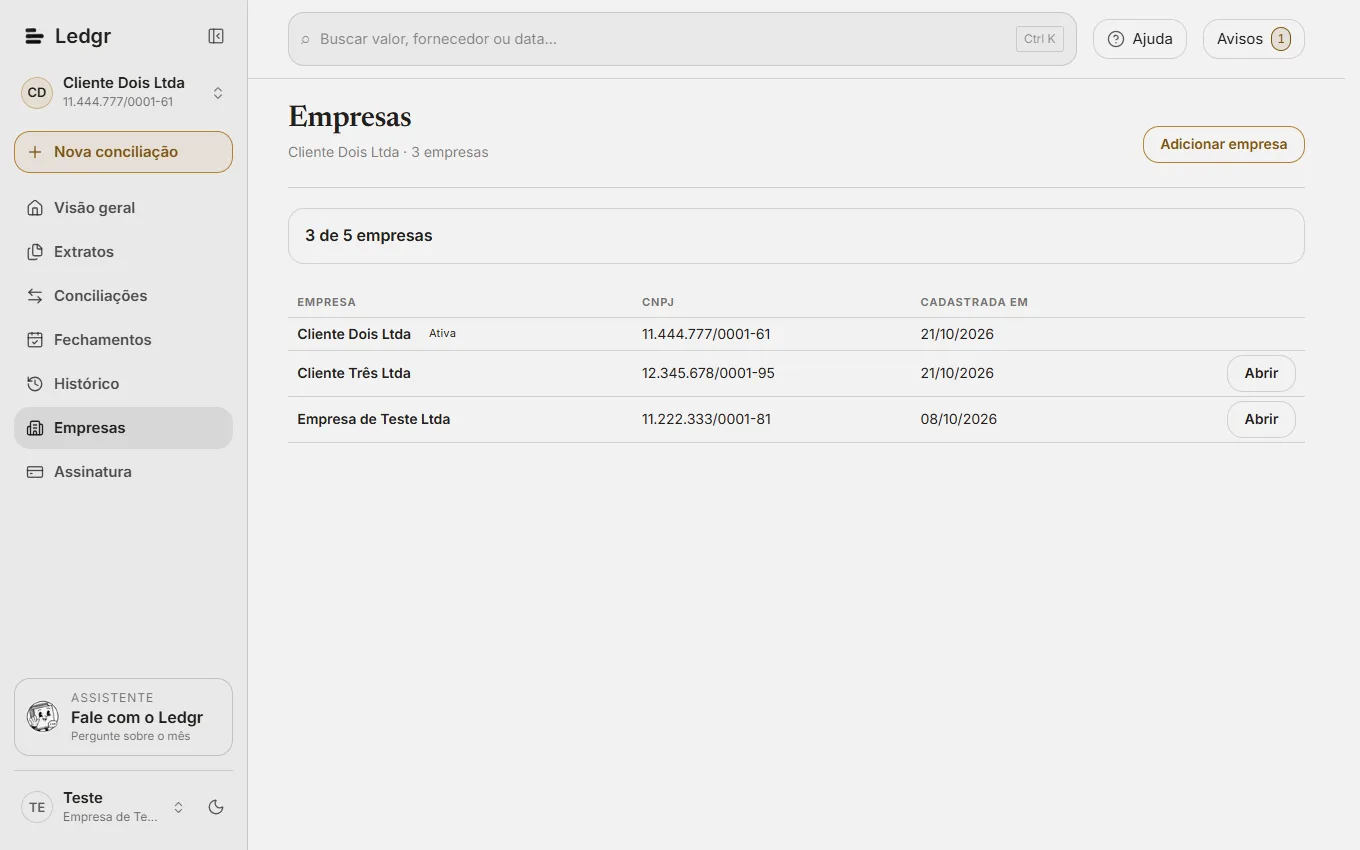
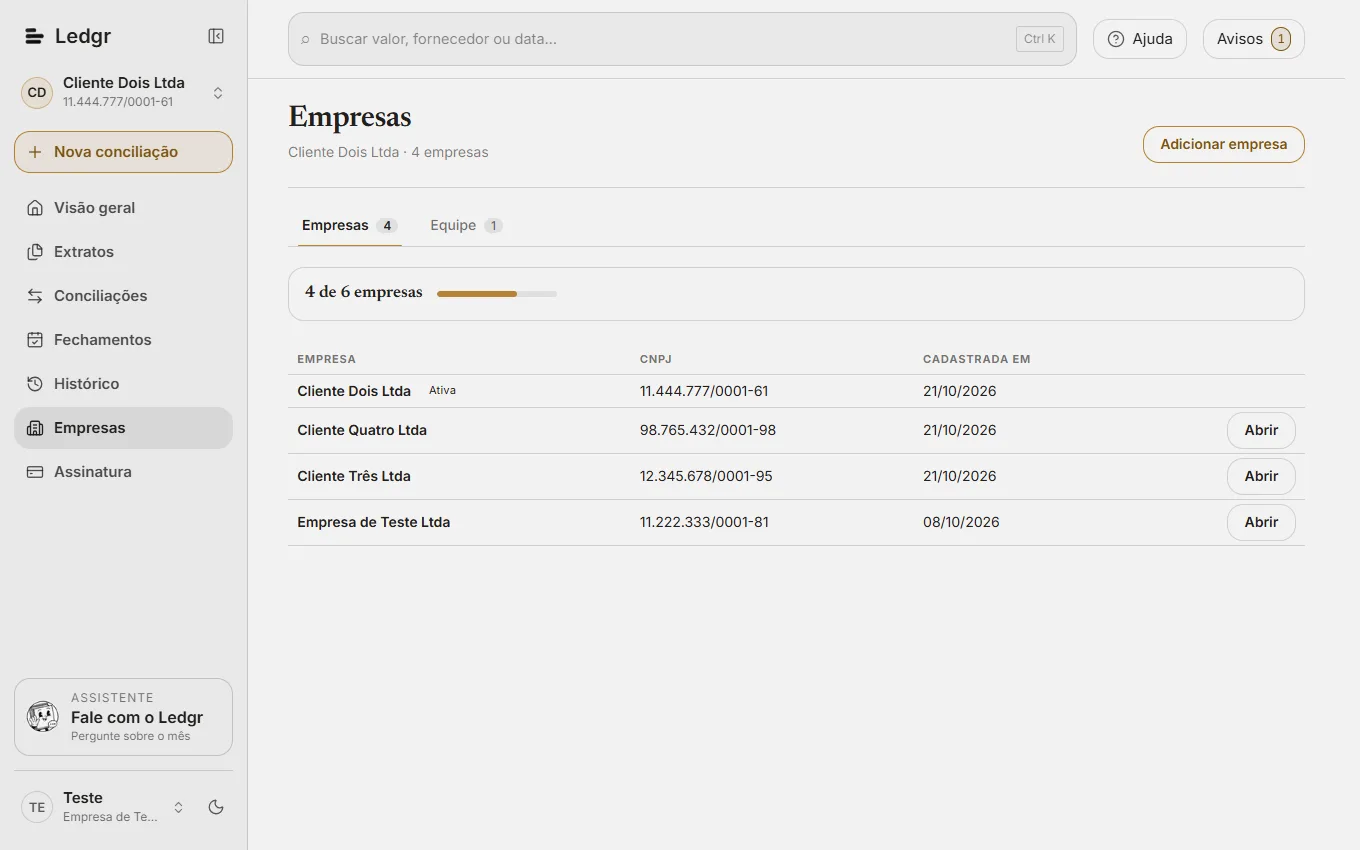
docs(ajuda): a Equipe na página Empresas e CLAUDE.md (#169)

diff --git a/app/(ajuda)/ajuda/paginas.ts b/app/(ajuda)/ajuda/paginas.ts
@@ -590,6 +590,22 @@ export const PAGINAS: PaginaDeAjuda[] = [
           "Para ter mais empresas, troque de plano em **Assinatura**.",
         ],
       },
+      {
+        id: "equipe",
+        titulo: "A equipe",
+        faz: "As pessoas com acesso à conta e o papel de cada uma: **Administrador**, **Gestor** ou **Analista**. O administrador e o gestor convidam e cancelam convites; só o administrador remove pessoas.",
+        passos: [
+          "Abra **Empresas** no menu lateral e clique na aba **Equipe**.",
+          "Clique em **Convidar pessoa**, digite o e-mail e escolha o papel: cada cartão diz o que a pessoa poderá fazer. O administrador convida gestor ou analista; o gestor convida só analista. A pessoa recebe um link para criar o acesso.",
+          "Para tirar alguém, clique em **Remover** na linha dela (só o administrador vê o botão) e confirme. O acesso é cortado na hora.",
+        ],
+        nota: "O analista vê a lista, concilia e justifica, mas não fecha o mês nem convida ninguém. Os convites pendentes contam no limite de pessoas do plano.",
+        imagem: {
+          src: "/ajuda/empresas--equipe.webp",
+          largura: 1360,
+          altura: 850,
+        },
+      },
     ],
   },
   {
@@ -597,7 +613,7 @@ export const PAGINAS: PaginaDeAjuda[] = [
     titulo: "Configurações",
     onde: "Menu da conta › Configurações, ou Ctrl e vírgula",
     serve:
-      "A sua conta, a equipe, a aparência do app e a regra da conciliação.",
+      "A sua conta, a aparência do app e a regra da conciliação.",
     capa: {
       src: "/ajuda/configuracoes.webp",
       largura: 1360,
@@ -607,7 +623,7 @@ export const PAGINAS: PaginaDeAjuda[] = [
       {
         id: "abrir",
         titulo: "Abrir e procurar",
-        faz: "As configurações abrem numa janela por cima da tela em que você está, com as seções à esquerda: Conta, Equipe, Aparência, Conciliação, Atalhos de teclado, Privacidade e Sobre.",
+        faz: "As configurações abrem numa janela por cima da tela em que você está, com as seções à esquerda: Conta, Aparência, Conciliação, Atalhos de teclado, Privacidade e Sobre.",
         passos: [
           "Clique no seu nome no menu lateral e em **Configurações**, ou aperte **Ctrl** e **,**.",
           "Escolha a seção, ou digite em **Procurar** o que quer mudar, por exemplo “senha”.",
@@ -640,22 +656,6 @@ export const PAGINAS: PaginaDeAjuda[] = [
         nota: "Vale a partir da próxima conciliação. Com 0, só casam lançamentos do mesmo dia.",
         imagem: {
           src: "/ajuda/configuracoes--tolerancia.webp",
-          largura: 960,
-          altura: 640,
-        },
-      },
-      {
-        id: "equipe",
-        titulo: "Equipe",
-        faz: "As pessoas com acesso à empresa e o papel de cada uma: **Administrador**, **Gestor** ou **Analista**. O administrador e o gestor convidam e cancelam convites; só o administrador remove pessoas.",
-        passos: [
-          "Abra **Equipe**.",
-          "Clique em **Convidar pessoa**, digite o e-mail e escolha o papel. O administrador convida gestor ou analista; o gestor convida só analista. A pessoa recebe um link para criar o acesso.",
-          "Para tirar alguém, clique em **Remover** (só o administrador vê o botão). O acesso é cortado na hora.",
-        ],
-        nota: "O analista concilia e justifica, mas não fecha o mês nem convida ninguém.",
-        imagem: {
-          src: "/ajuda/configuracoes--equipe.webp",
           largura: 960,
           altura: 640,
         },

diff --git a/app/(ajuda)/ajuda/central.test.tsx b/app/(ajuda)/ajuda/central.test.tsx
@@ -125,17 +125,27 @@ describe("o conteúdo da ajuda", () => {
     expect(empresas.titulo).toBe("Empresas");
     expect(empresas.onde).toBe("Menu lateral › Empresas");
     expect(existsSync(join("public", empresas.capa.src)), empresas.capa.src).toBe(true);
-    expect(empresas.funcoes.map((funcao) => funcao.id)).toEqual(["lista", "abrir", "cadastrar", "limite"]);
+    expect(empresas.funcoes.map((funcao) => funcao.id)).toEqual(["lista", "abrir", "cadastrar", "limite", "equipe"]);
     const cadastrar = empresas.funcoes.find((funcao) => funcao.id === "cadastrar")!;
     for (const botao of ["**Adicionar empresa**", "**Cadastrar empresa**"]) {
       expect(cadastrar.passos?.join(" "), botao).toContain(botao);
     }
     expect(empresas.funcoes.find((funcao) => funcao.id === "limite")!.passos?.join(" ")).toContain("**Assinatura**");
 
+    // a equipe mudou das Configurações para a aba Equipe desta página
+    const equipe = empresas.funcoes.find((funcao) => funcao.id === "equipe")!;
+    const passosDaEquipe = equipe.passos?.join(" ") ?? "";
+    for (const botao of ["**Equipe**", "**Convidar pessoa**", "**Remover**"]) {
+      expect(passosDaEquipe, botao).toContain(botao);
+    }
+    expect(equipe.imagem?.src).toBe("/ajuda/empresas--equipe.webp");
+
     const configuracoes = PAGINAS.find((pagina) => pagina.id === "configuracoes")!;
-    expect(configuracoes.funcoes.some((funcao) => funcao.id === "empresas")).toBe(false);
-    expect(configuracoes.funcoes.find((funcao) => funcao.id === "abrir")!.faz).toContain("Conta, Equipe, Aparência");
-    expect(configuracoes.serve).not.toMatch(/empresas/);
+    expect(configuracoes.funcoes.some((funcao) => funcao.id === "empresas" || funcao.id === "equipe")).toBe(false);
+    expect(configuracoes.funcoes.find((funcao) => funcao.id === "abrir")!.faz).toContain("Conta, Aparência");
+    expect(configuracoes.funcoes.find((funcao) => funcao.id === "abrir")!.faz).not.toContain("Equipe");
+    expect(configuracoes.serve).not.toMatch(/empresas|equipe/);
+    expect(existsSync(join("public", "ajuda", "configuracoes--equipe.webp"))).toBe(false);
   });
 
   it("toda imagem existe em public/", () => {

diff --git a/CLAUDE.md b/CLAUDE.md
@@ -23,8 +23,8 @@
 - **The date tolerance is editable** in Configurações › Conciliação, from `GET`/`PUT /empresa/configuracoes` (backend #85, `carregarRegras`/`salvarToleranciaDias`): 0 up to the `tolerancia_dias_maximo` the backend sends, saved by button, valid from the next conciliation. It is the only engine rule the backend keeps (value tolerance and similarity were dropped, ADR-006/008); with a 404 the dialog shows the last conciliation's tolerance, read only.
 - **The account comes from `GET /me`** (backend #81), read once per layout load by `contaDaSessao` in `app/(auth)/acoes.ts`: the company name for the header and menu, and whether the account has a password (`metodos_login`; a Google-only account gets no "Trocar senha"). The role comes in `papel` (`admin`, `gestor` or `analista`, backend #133, read by `lerPapel` in `lib/papel.ts`); without it the old `administrador` decides (false is analista), and without both the account is admin, as in the old single account. `administrador` is obsolete on the backend and goes away only after we tell them we stopped reading it.
 - **The active company lives in the URL** (backend #133/ADR-019, front #169 part A, `docs/superpowers/specs/2026-10-21-empresa-ativa-na-url-design.md`). Every app screen is `/e/<empresa-uuid>/<screen>` (`app/(app)/e/[empresa]/...`), one scheme even with a single company: the token cookie is shared by every tab, so the active company can't live in it. `proxy.ts` reads the UUID from the path and leaves it in the request as `x-ledgr-empresa` (always deleting any incoming one); `chamarBackend`/`baixarDoBackend` (`lib/backend.ts`) send it as `X-Ledgr-Empresa`, so no Server Action passes it. The CSV route (`/api`, outside the proxy) takes `?empresa=` and passes `{ empresa }` to `baixarDoBackend`. `lib/rotas.ts` holds the pure rules (`comEmpresa`, `caminhoSemEmpresa`, `destinoDaTroca`, `escolherEmpresa`, `destinoDaUrlAntiga`); inside the tree, links, pushes and redirects go through `LinkDoApp` (`lib/link-do-app.tsx`), `useRoteador()` (`lib/roteador.ts`) and `redirecionarNoApp()` (`lib/rotas-servidor.ts`), and `lib/rotas.guarda.test.ts` fails on a raw `Link`, `useRouter`, `redirect` or literal address to an app screen (write new links with the helpers). The layout of `e/[empresa]` checks the UUID against `me.empresas` (404 otherwise; without the list, as on a backend before #133, it accepts it) and gives `ProvedorDaEmpresa` the active company: the screens' header shows it and the user card shows the account. `app/(sem-empresa)/[secao]/[[...resto]]` redirects the old URLs (`/visao-geral`, favourites, the login target) to the last company used (cookie `ledgr-empresa-recente`, a preference only: it never goes to the backend) or the first, and answers 404 to anything that could leave the site. `SeletorDeEmpresa` (top of the sidebar, hidden with one company, search above 8) switches to the same screen in the other company, or to the section root from a screen with an id. Registering companies is the next bullet (a screen of the menu). Not built: the `conta_id` JWT claim (the backend still accepts the old `empresa_id`).
-- **Client companies and plan limits** (backend #133 part 2, front #169 part B, `docs/superpowers/specs/2026-10-22-empresas-na-configuracao-design.md`). **Empresas is a screen of the side menu** (`/e/<empresa>/empresas`, `app/(app)/e/[empresa]/empresas/`, between Histórico and Assinatura; `empresas` is in `SECOES`), not a section of Configurações. `page.tsx` is a Server Component like Extratos: it loads `GET /empresas` (everyone; `{ itens }` with `cnpj_verificado_em`) through `carregarEmpresas` and hands the list to `PainelDeEmpresas`, which carries its own `Cabecalho` because the header's "Adicionar empresa" button opens the form panel. The table shows razão social with "Ativa", CNPJ with "CNPJ verificado", the registration day and "Abrir", which goes to the other company's **Visão geral** (cookie + `comEmpresa`; the selector keeps the same screen instead). The admin and the gestor register one (`CadastrarEmpresa`, `cadastrarEmpresa`: the CNPJ goes with letters and digits only, upper case, after `validarCnpj`, which already knows the alphanumeric CNPJ; razão social is not taken from the Receita, the authenticated route does not return it); on success the new company opens on its Visão geral. A double submit sends once (a `ref` locks before the first `await`). The errors: 409 and 422 sit under the CNPJ field (422 is the format or the Receita, from `ErroBackend.mensagens.cnpj` with the `Value error, ` prefix removed), 402 shows the backend's text with "Ver planos" and re-reads the page (`router.refresh()`), 429 reads `Retry-After`, 403 re-reads the page. The analista only sees the list. `limites` of `GET /me` (`{ empresas: { usadas, maximo }, usuarios: { usados, maximo } }`, `maximo` null is unlimited) is read by `adaptarLimites` in `lib/limites.ts`, carried `contaDaSessao` → `Shell` → `ProvedorDaConta` and read with `useLimites()`; without the field nothing is shown. `situacaoDoLimite` gives `livre`, `folga`, `perto` (one left, or 80%), `no-limite` and `acima`, and `textoDoLimite` the sentence. On the screen the plan strip shows "3 de 5 empresas" and, at the limit, the add button is off (the backend answers 402 even to the admin); in Equipe the same notice for people (active plus pending invites) only warns, it does not turn the invite off, because re-sending to the same e-mail takes no seat and the screen cannot predict the 402. The selector ends its list with a "Gerenciar empresas" link to the screen; with one company the selector is hidden, so the way in is the menu. The Central de ajuda has an "Empresas" page (cover `public/ajuda/empresas.webp`); the screen has no mascot tutorial yet (Assinatura has none either). Not built: editing or removing a company (no backend route).
-- **Team and invites** (backend #69/#73, `docs/superpowers/specs/2026-10-16-equipe-e-convites-design.md`). Three roles (#133): the admin signed the company up; the gestor and the analista come by invite. Configurações › Equipe (`app/(app)/equipe/`: `useLinhasDaEquipe` returns lines in the same shape as the other sections, so the dialog's search finds them) lists people from `GET /empresa/usuarios` (everyone) and, for the admin and the gestor, pending invites from `GET /empresa/convites` (a 403 there leaves the list without them, it does not break the team), with invite (`POST` with `{ email, papel }`: the admin invites gestor or analista, the gestor only analista; 409/429 with `Retry-After` in `ErroBackend.segundosParaTentar`/503 while the backend's e-mail is off), cancel and remove (cuts access at once). The invite link is `/aceitar-convite#token=...` (`app/(auth)/aceitar-convite/`): the page reads the token from the fragment, clears it, calls `POST /convites/consultar` and accepts with name and password (`POST /convites/aceitar`, then `entrar`) or with Google: "Aceitar com Google" stores the token in the httpOnly cookie `ledgr-convite-google` (1 hour) and `aoVoltarDoGoogle` sees it and calls `POST /convites/aceitar/google` instead of `/login/google`; refusals come back as `/aceitar-convite?google=<motivo>` and the server re-reads the invite from the cookie (`conviteDoCookie`). Someone already signed in sees "Sair e continuar" first. The plan limit for people only warns (see the bullet above). Everybody justifies (decision of 21/10); closing or reopening a month is for the admin and the gestor (`podeFecharMes` in `lib/papel.ts`, text in `lib/gestor.ts`): `ProvedorDaConta` carries `papel` (`usePapel`, `usePodeFechar`), the Fechamentos panel hides those buttons for the analista with a one-line reason, and `fecharMes`/`reabrirMes` refuse with 403 before calling the backend. The lock that counts is the backend's (backend #132/#133), whose 403 maps to the same text. Not built yet: changing a role (`PATCH /empresa/usuarios/{id}`) and transferring the admin (`POST /empresa/admin/transferencia`). Removing people stays with the admin.
+- **Client companies and plan limits** (backend #133 part 2, front #169 part B, `docs/superpowers/specs/2026-10-22-empresas-na-configuracao-design.md`). **Empresas is a screen of the side menu** (`/e/<empresa>/empresas`, `app/(app)/e/[empresa]/empresas/`, between Histórico and Assinatura; `empresas` is in `SECOES`), not a section of Configurações. `page.tsx` is a Server Component like Extratos: it loads `GET /empresas` (everyone; `{ itens }` with `cnpj_verificado_em`) through `carregarEmpresas` and hands the list to `PainelDeEmpresas`, which carries its own `Cabecalho` because the header's button ("Adicionar empresa" or "Convidar pessoa") opens the form panel of the active tab. **The screen has two tabs, Empresas and Equipe** (decision of 23/10, the team moved here from Configurações): `?aba=equipe` opens on Equipe (`page.tsx` reads `searchParams.aba`; any other value is Empresas), switching tabs does not reload and `replaceState`s the URL, the arrows move between tabs, and the team loads with the screen (`useEquipe`, so the Equipe tab's number and the switch are immediate). The table shows razão social with "Ativa", CNPJ with "CNPJ verificado", the registration day and "Abrir", which goes to the other company's **Visão geral** (cookie + `comEmpresa`; the selector keeps the same screen instead). The admin and the gestor register one (`CadastrarEmpresa`, `cadastrarEmpresa`: the CNPJ goes with letters and digits only, upper case, after `validarCnpj`, which already knows the alphanumeric CNPJ; razão social is not taken from the Receita, the authenticated route does not return it); on success the new company opens on its Visão geral. A double submit sends once (a `ref` locks before the first `await`). The errors: 409 and 422 sit under the CNPJ field (422 is the format or the Receita, from `ErroBackend.mensagens.cnpj` with the `Value error, ` prefix removed), 402 shows the backend's text with "Ver planos" and re-reads the page (`router.refresh()`), 429 reads `Retry-After`, 403 re-reads the page. The analista only sees the list. `limites` of `GET /me` (`{ empresas: { usadas, maximo }, usuarios: { usados, maximo } }`, `maximo` null is unlimited) is read by `adaptarLimites` in `lib/limites.ts`, carried `contaDaSessao` → `Shell` → `ProvedorDaConta` and read with `useLimites()`; without the field nothing is shown. `situacaoDoLimite` gives `livre`, `folga`, `perto` (one left, or 80%), `no-limite` and `acima`, and `textoDoLimite` the sentence. Each tab starts with `FaixaDoPlano` ("3 de 5 empresas", "2 de 3 pessoas", a usage bar only when there is a maximum, red at the limit): in Empresas, at the limit or above it, the add button is off (the backend answers 402 even to the admin); in Equipe the same notice for people (active plus pending invites) only warns, it does not turn the invite off, because re-sending to the same e-mail takes no seat and the screen cannot predict the 402. The selector ends its list with a "Gerenciar empresas" link to the screen; with one company the selector is hidden, so the way in is the menu. The Central de ajuda has an "Empresas" page (cover `public/ajuda/empresas.webp`); the screen has no mascot tutorial yet (Assinatura has none either). Not built: editing or removing a company (no backend route).
+- **Team and invites** (backend #69/#73, `docs/superpowers/specs/2026-10-16-equipe-e-convites-design.md`). Three roles (#133): the admin signed the company up; the gestor and the analista come by invite. The **Equipe tab of the Empresas screen** (`app/(app)/e/[empresa]/empresas/painel-da-equipe.tsx`, actions in `equipe/acoes.ts`; it lived in Configurações until 23/10: each person with initials avatar, "você" and the role as a label, pending invites in dashed rows, the invite as a panel with one **card per role** explaining what it allows, the least powerful role preselected, "Remover" asking for confirmation on the row; the signed-in person is marked by `useEmail()` from `ProvedorDaConta`) lists people from `GET /empresa/usuarios` (everyone) and, for the admin and the gestor, pending invites from `GET /empresa/convites` (a 403 there leaves the list without them, it does not break the team), with invite (`POST` with `{ email, papel }`: the admin invites gestor or analista, the gestor only analista; 409/429 with `Retry-After` in `ErroBackend.segundosParaTentar`/503 while the backend's e-mail is off), cancel and remove (cuts access at once). The invite link is `/aceitar-convite#token=...` (`app/(auth)/aceitar-convite/`): the page reads the token from the fragment, clears it, calls `POST /convites/consultar` and accepts with name and password (`POST /convites/aceitar`, then `entrar`) or with Google: "Aceitar com Google" stores the token in the httpOnly cookie `ledgr-convite-google` (1 hour) and `aoVoltarDoGoogle` sees it and calls `POST /convites/aceitar/google` instead of `/login/google`; refusals come back as `/aceitar-convite?google=<motivo>` and the server re-reads the invite from the cookie (`conviteDoCookie`). Someone already signed in sees "Sair e continuar" first. The plan limit for people only warns (see the bullet above). Everybody justifies (decision of 21/10); closing or reopening a month is for the admin and the gestor (`podeFecharMes` in `lib/papel.ts`, text in `lib/gestor.ts`): `ProvedorDaConta` carries `papel` (`usePapel`, `usePodeFechar`), the Fechamentos panel hides those buttons for the analista with a one-line reason, and `fecharMes`/`reabrirMes` refuse with 403 before calling the backend. The lock that counts is the backend's (backend #132/#133), whose 403 maps to the same text. Not built yet: changing a role (`PATCH /empresa/usuarios/{id}`) and transferring the admin (`POST /empresa/admin/transferencia`). Removing people stays with the admin.
 - **The ERP's PDF is not accepted** until the backend's spike (#84) decides, by 13/10: the backend answers 400 for anything but `.ofx`/`.csv`. The upload fields and every text that offered "CSV ou PDF" say CSV only; commits `8cddca7` and `0e15b2e` show what to bring back if it returns (system side only).
 - **Hidden until the backend has the route:** changing the account e-mail (`POST /me/email`, backend #66). Configurações › Conta shows the e-mail and says to write to support instead; `trocarEmail` stays ready and tested in `app/(auth)/acoes.ts`.
 - **Deactivating the account is real** (`DELETE /me`, backend #68, `desativarConta`): Configurações › Conta › "Desativar conta" asks the current password (none for a Google-only account, where the backend checks a recent login and answers 409 otherwise), ends the access, frees the e-mail and signs out. An administrator with other people on the team gets the backend's 409 asking to remove them first. The company's data stays: deleting it is on request ("Excluir os dados da empresa" › "Pedir por e-mail", an internal script on the backend), as the privacy policy says.
